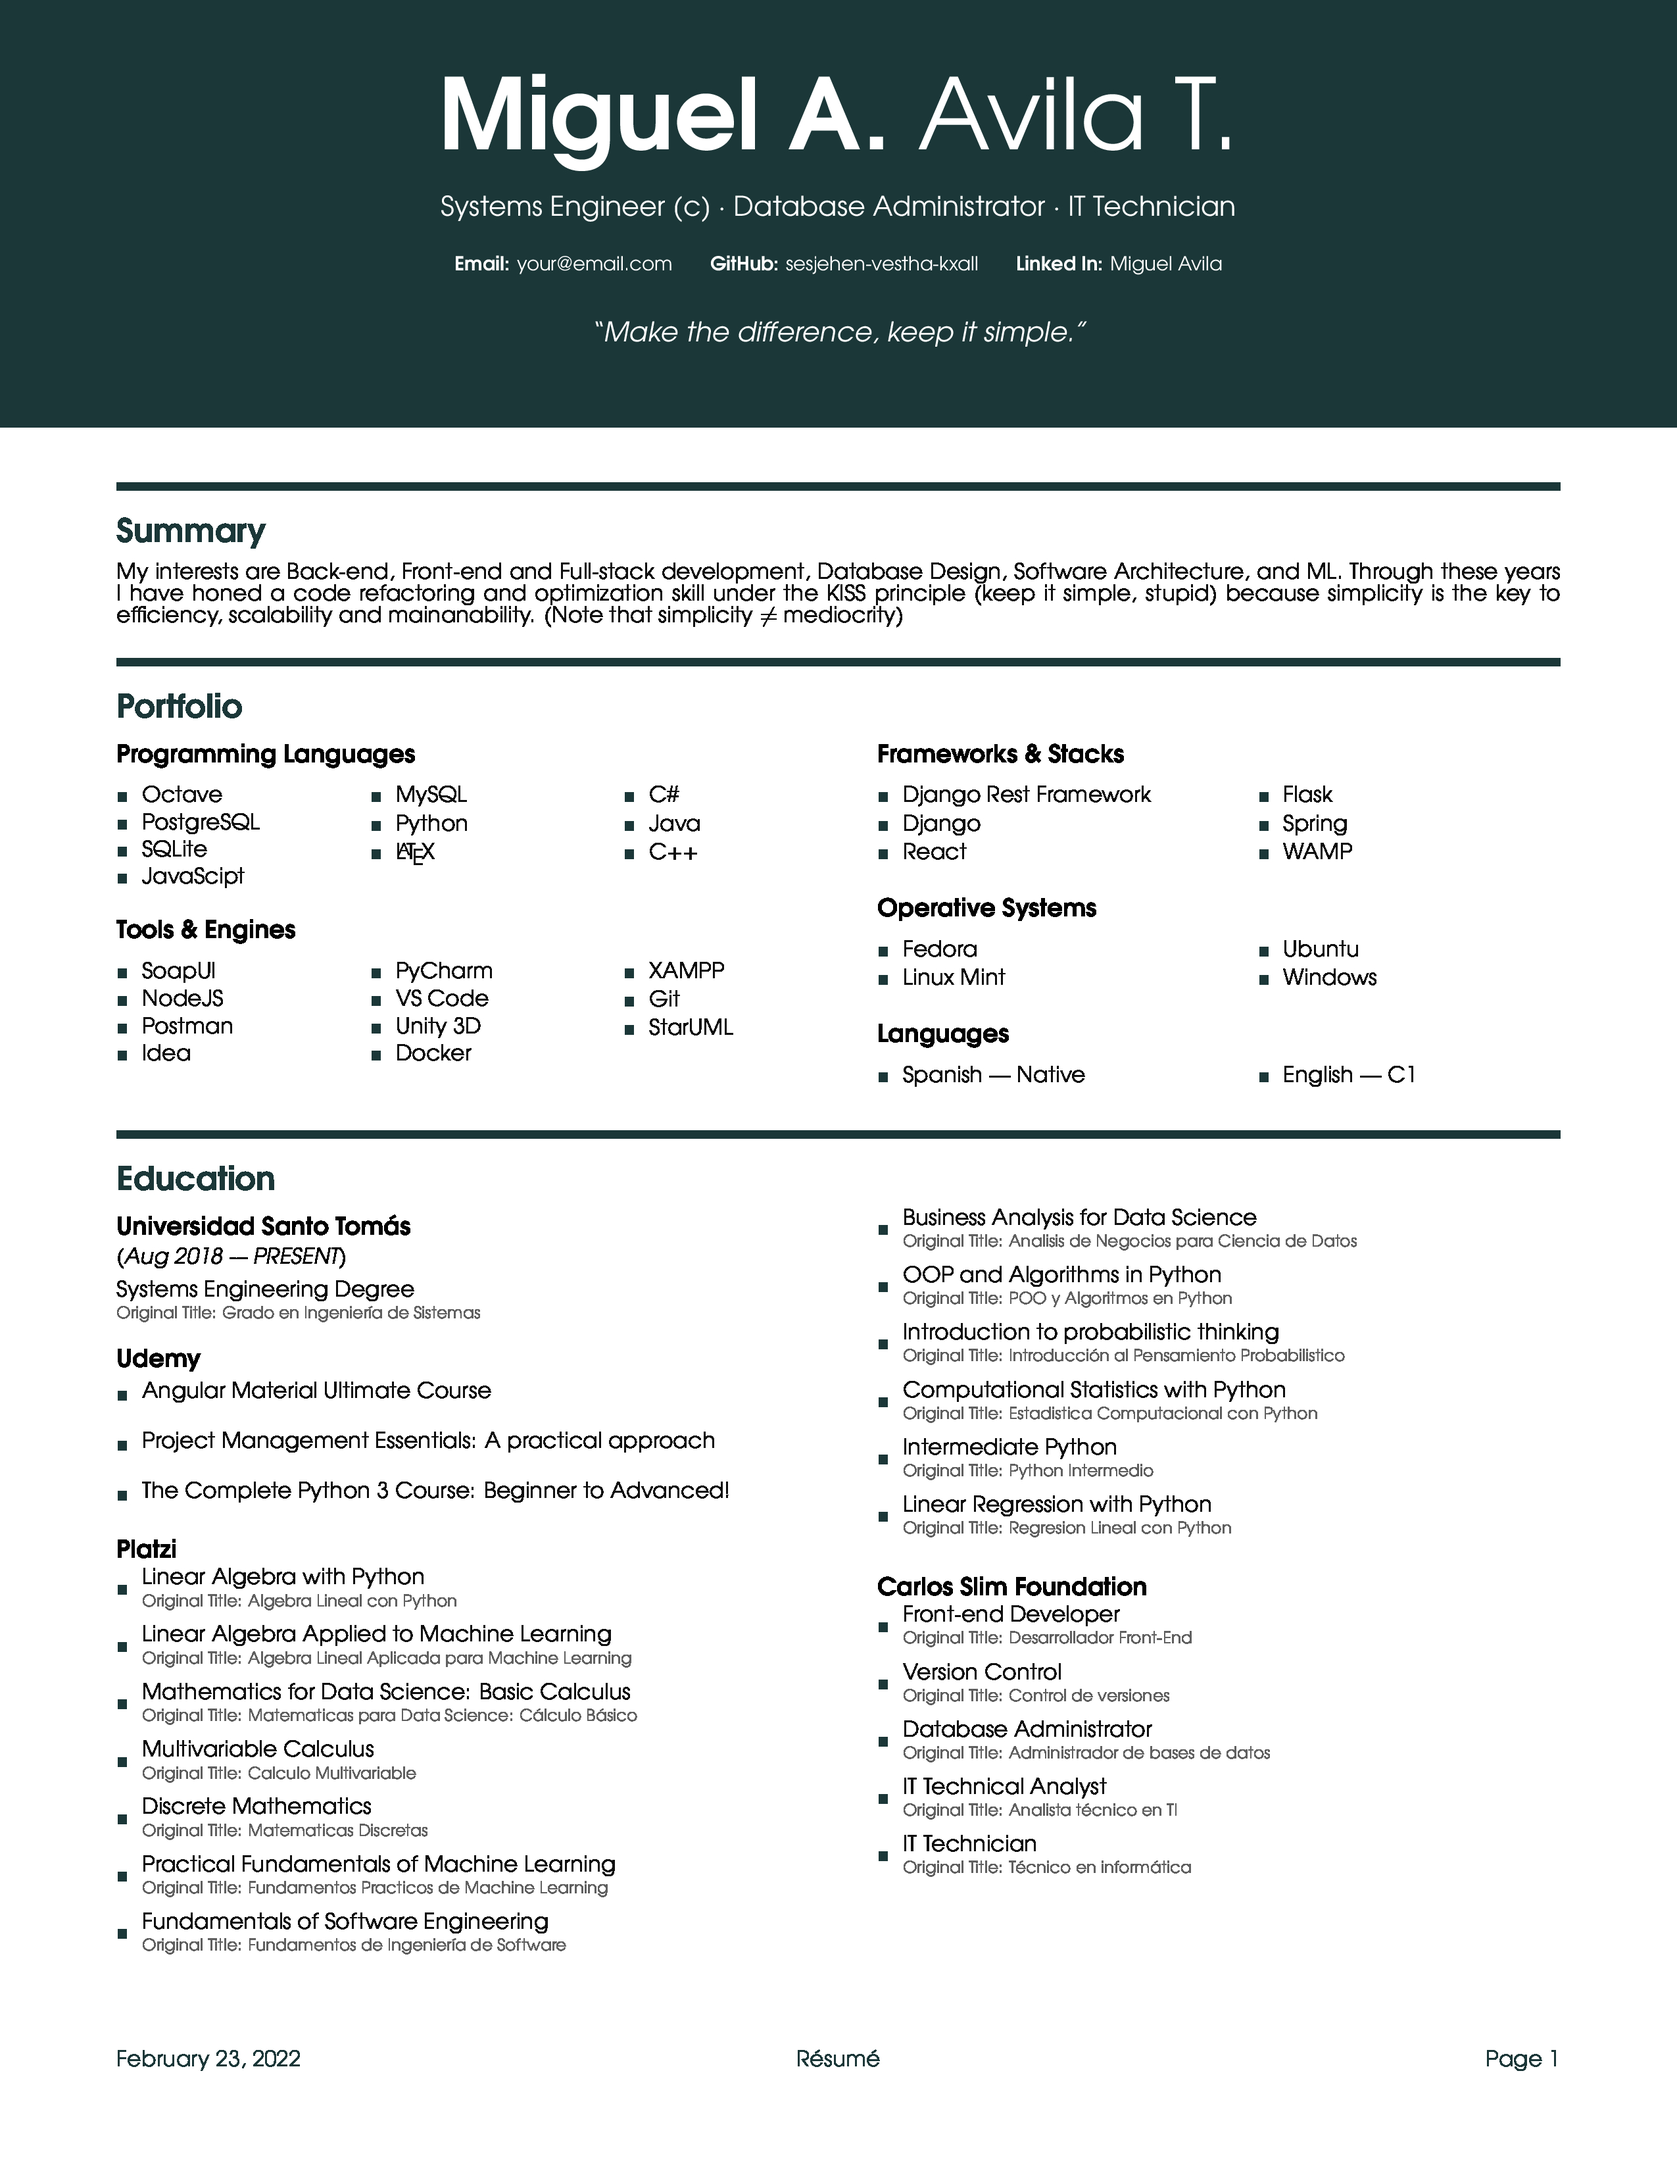
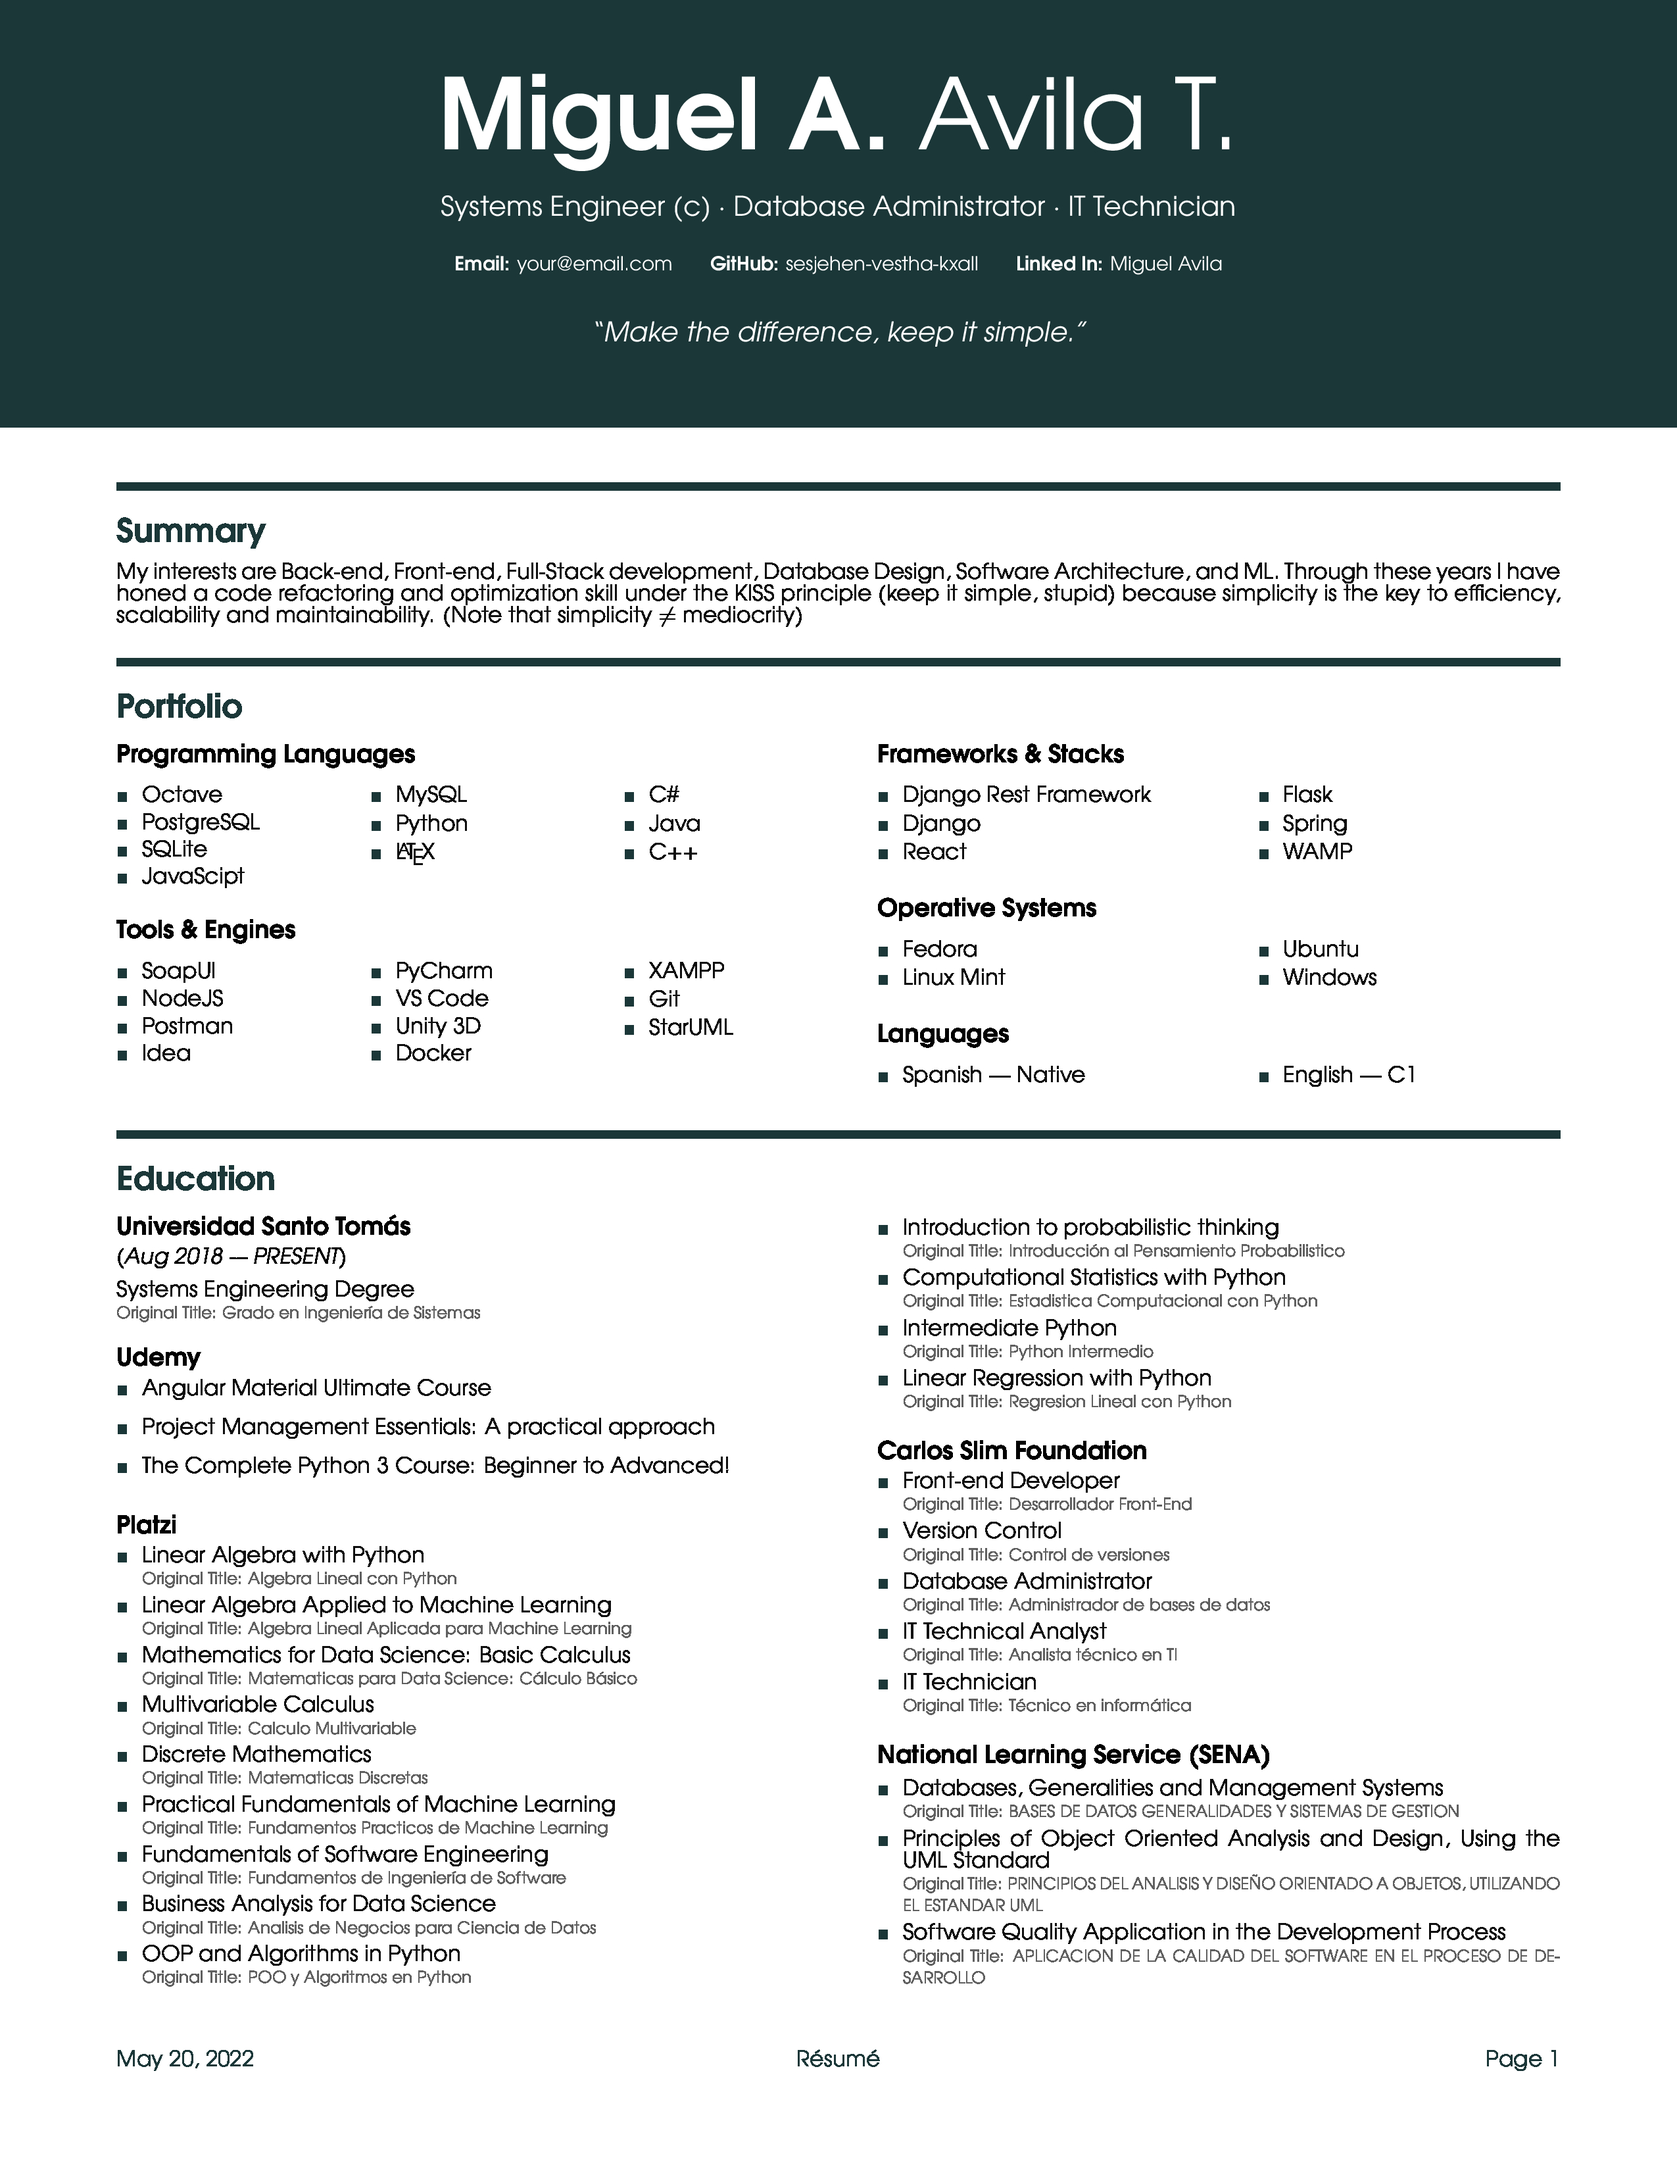
update v1.2 (fix)

diff --git a/src/resume.tex b/src/resume.tex
@@ -69,12 +69,12 @@
 \separator
 
 \section{Summary}
-My interests are Back-end, Front-end and Full-stack development,
+My interests are Back-end, Front-end, Full-Stack development,
 Database Design, Software Architecture, and ML.
 Through these years I have honed a code refactoring and 
 optimization skill under the KISS principle 
 (keep it simple, stupid) because simplicity is the
-key to efficiency, scalability and mainanability.
+key to efficiency, scalability and maintainability.
 (Note that simplicity $\neq$ mediocrity)
 
 \separator

diff --git a/src/structure.tex b/src/structure.tex
@@ -164,12 +164,10 @@
 
 \newcommand{\cvitem}[2]{
 	\def\originaltitleparam{#2}
-	\item \parbox{0.48\textwidth}{%
-		#1%
-		\ifx\originaltitleparam\empty% if #2 is empty
-			\\[-4pt]		
-		\else
-			\\~\originaltitle{#2}%
-		\fi
-	}
+		\item #1
+	\ifx\originaltitleparam\empty% if #2 is empty
+		\\[-4pt]		
+	\else
+		\\~\originaltitle{#2}%
+	\fi
 }
